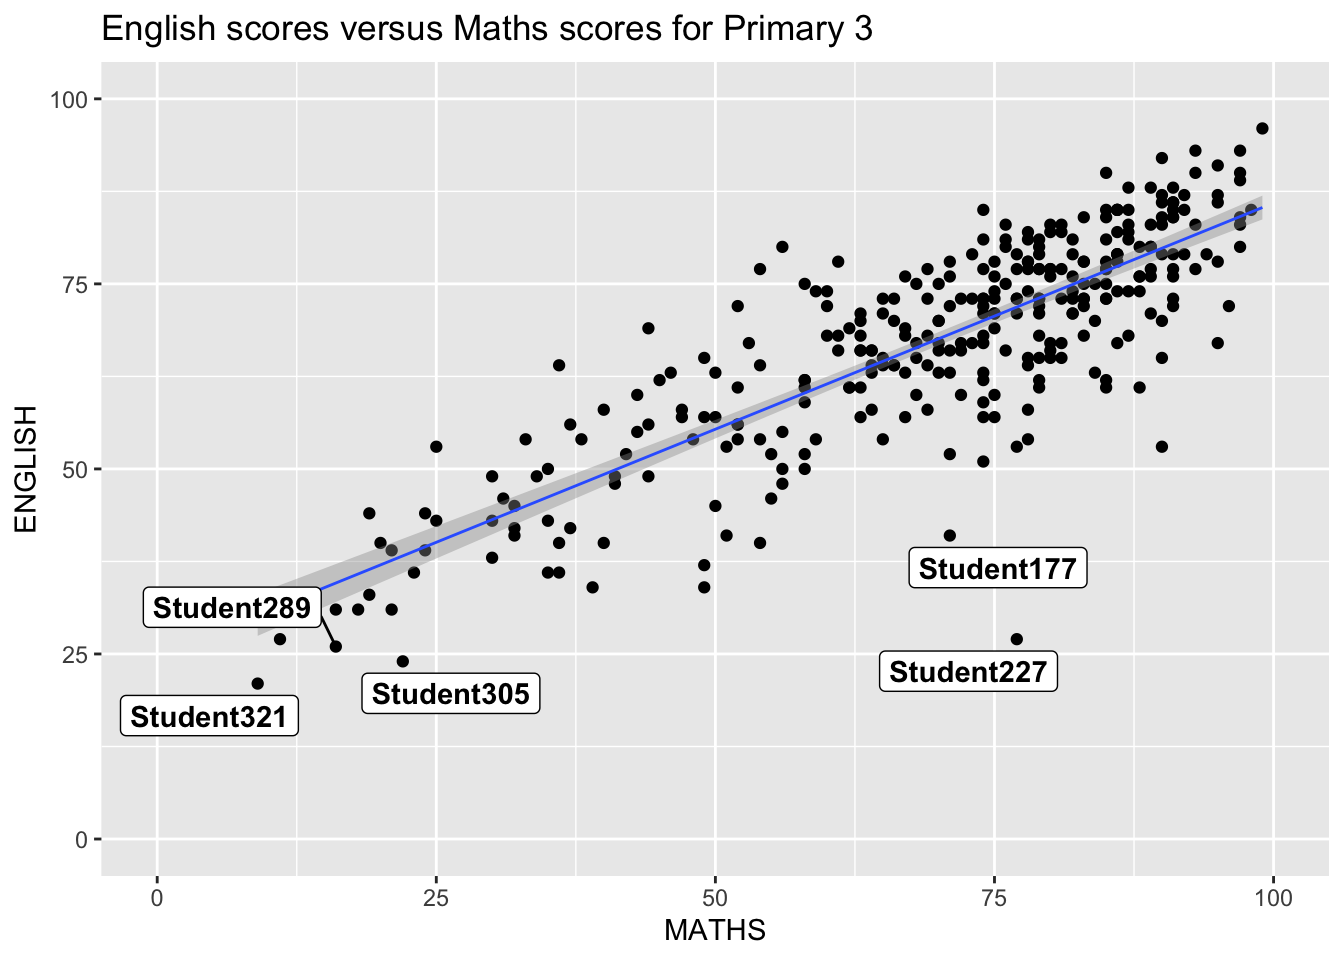
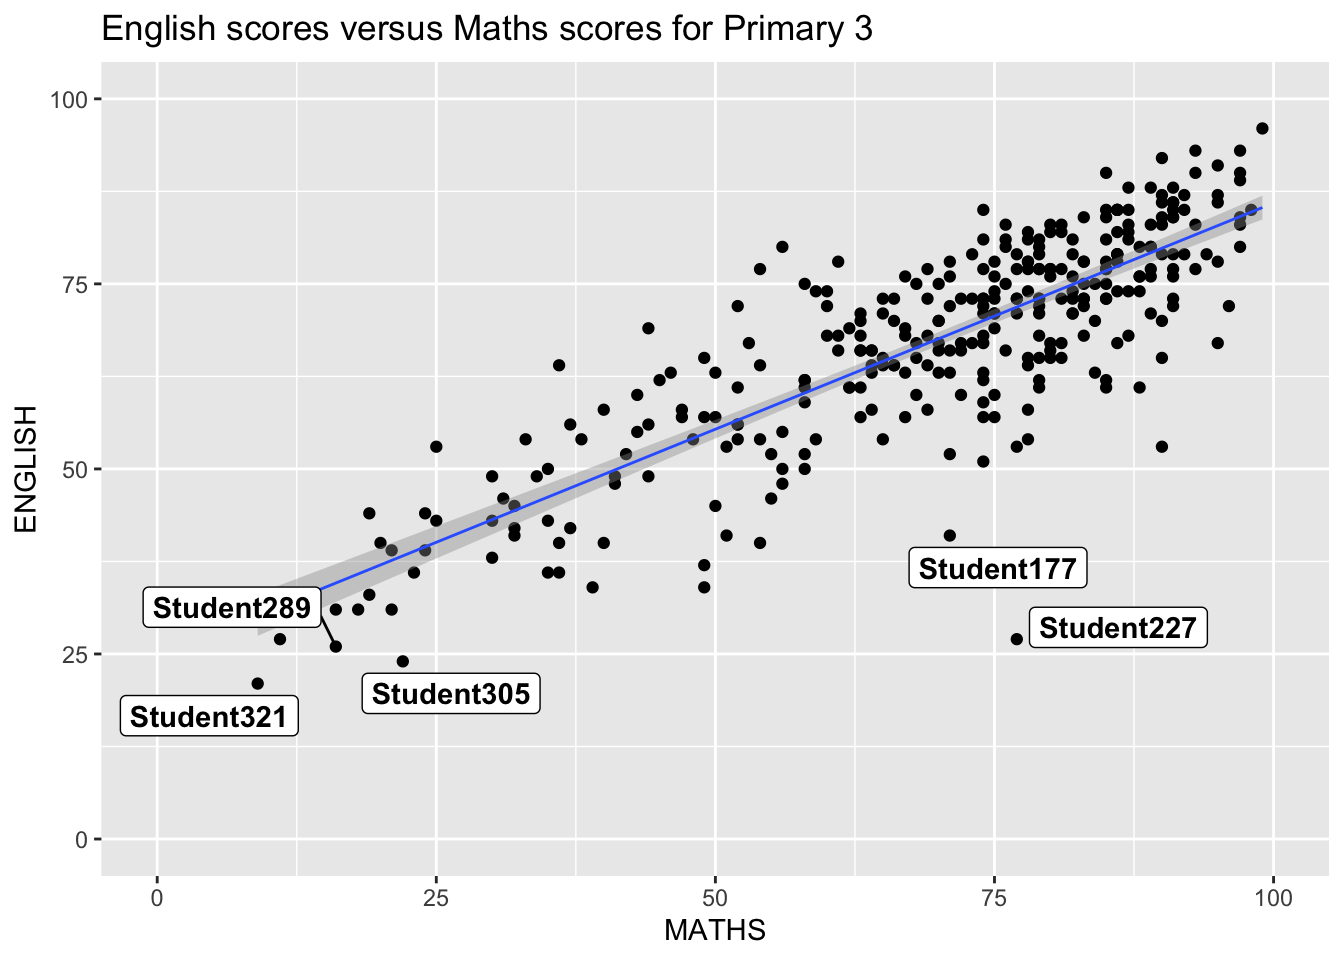
Handson_02_V2

Changed region(s): [[0.6562, 0.625, 0.9062, 0.7188]]

diff --git a/_site/Handson-Exercise/Handson_02/Handson_Ex02.html b/_site/Handson-Exercise/Handson_02/Handson_Ex02.html
@@ -302,6 +302,13 @@ pre > code.sourceCode > span > a:first-child::before { text-decoration: underlin
 <span id="cb3-10"><a href="#cb3-10" aria-hidden="true" tabindex="-1"></a>  <span class="fu">coord_cartesian</span>(<span class="at">xlim=</span><span class="fu">c</span>(<span class="dv">0</span>,<span class="dv">100</span>),</span>
 <span id="cb3-11"><a href="#cb3-11" aria-hidden="true" tabindex="-1"></a>                  <span class="at">ylim=</span><span class="fu">c</span>(<span class="dv">0</span>,<span class="dv">100</span>)) <span class="sc">+</span></span>
 <span id="cb3-12"><a href="#cb3-12" aria-hidden="true" tabindex="-1"></a>  <span class="fu">ggtitle</span>(<span class="st">"English scores versus Maths scores for Primary 3"</span>)</span></code><button title="Copy to Clipboard" class="code-copy-button"><i class="bi"></i></button></pre></div>
+<div class="cell-output-display">
+<div>
+<figure class="figure">
+<p><img src="Handson_Ex02_files/figure-html/unnamed-chunk-3-1.png" class="img-fluid figure-img" width="672"></p>
+</figure>
+</div>
+</div>
 </div>
 <p>We simply replace <code>geom_text()</code> by geom_text_repel() and <code>geom_label()</code> by geom_label_repel.</p>
 <section id="working-with-ggrepel" class="level2">
